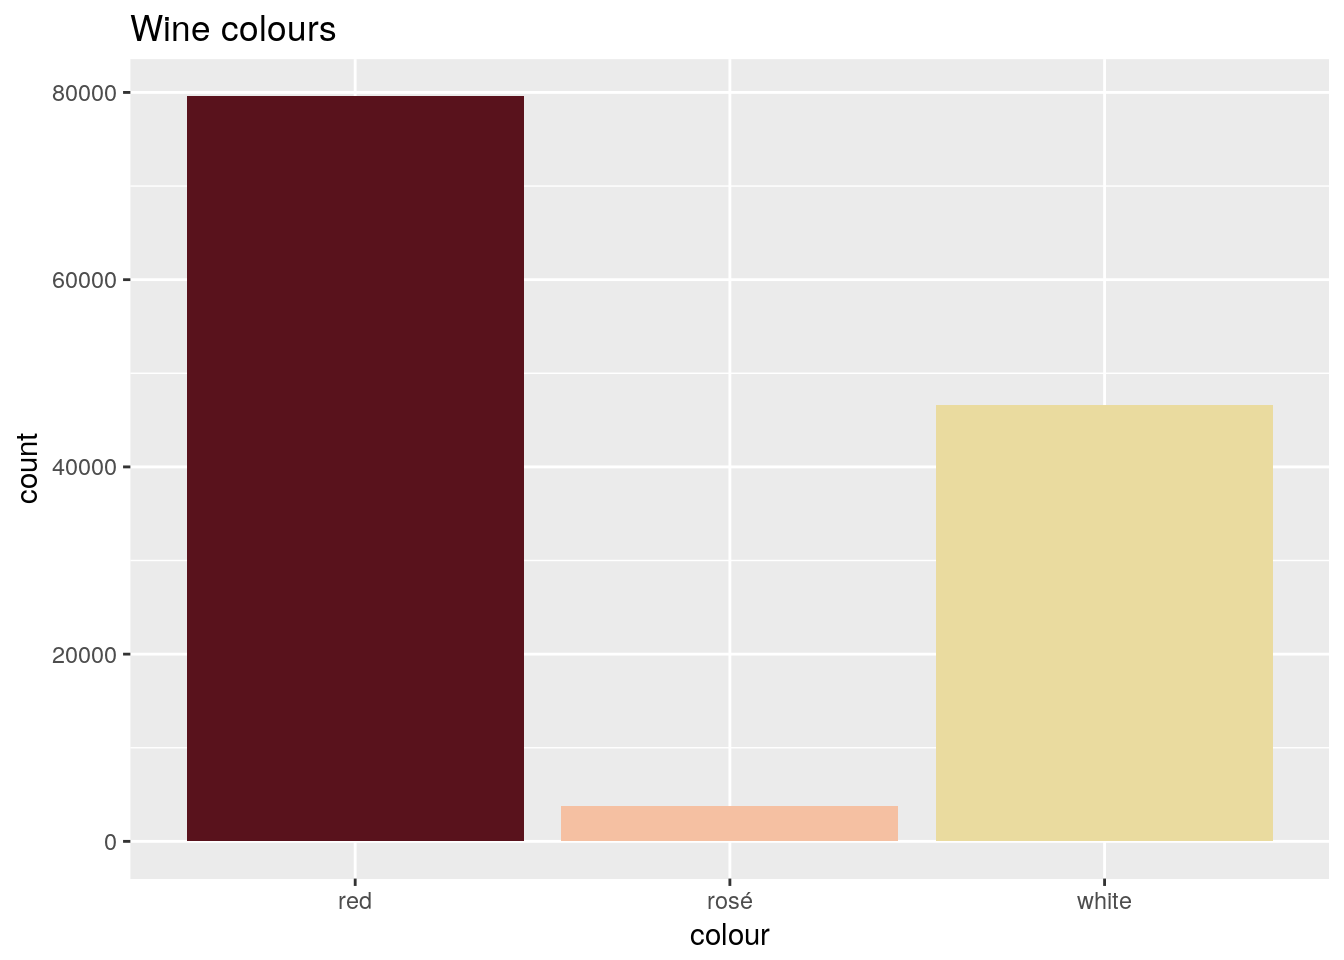
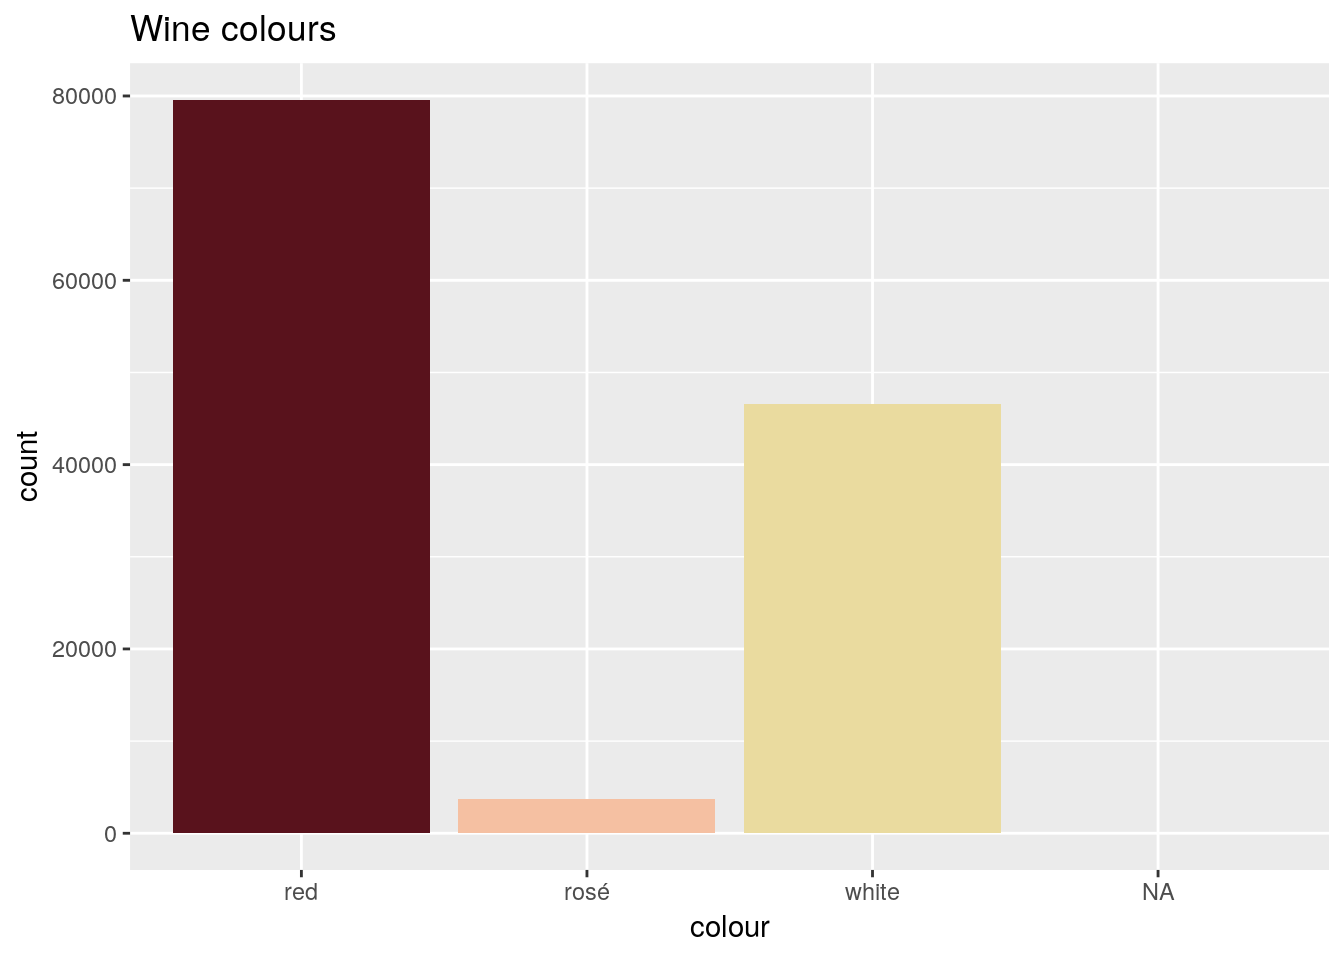
Fixed broken relative links

diff --git a/public/post/scraping-wine-colours-with-r/index.html b/public/post/scraping-wine-colours-with-r/index.html
@@ -25,7 +25,7 @@ I like red wine. I do not like white wine. I love wine data.  I came across a gr
         "datePublished": "2018-07-01 00:00:00 &#43;0000 UTC",
         "dateModified" : "2018-07-01 00:00:00 &#43;0000 UTC",
         "url" : "/post/scraping-wine-colours-with-r/",
-        "wordCount" : "2084",
+        "wordCount" : "2156",
         "keywords" : [ "R","R Markdown","wine","Blog" ]
     }
     </script>
@@ -88,7 +88,7 @@ I like red wine. I do not like white wine. I love wine data.  I came across a gr
 
 <meta itemprop="datePublished" content="2018-07-01T00:00:00&#43;00:00" />
 <meta itemprop="dateModified" content="2018-07-01T00:00:00&#43;00:00" />
-<meta itemprop="wordCount" content="2084">
+<meta itemprop="wordCount" content="2156">
 
 
 
@@ -532,7 +532,7 @@ I like red wine. I do not like white wine. I love wine data.  I came across a gr
             July 1, 2018</time>
         <span class="author"></span>
         
-            <p>10 minute read</p>
+            <p>11 minute read</p>
         
         
     </div>
@@ -690,12 +690,18 @@ information from the review:</p>
 wine data from the <a href="https://en.wikipedia.org/wiki/List_of_grape_varieties">List of grape varieties</a>
 Wikipedia page, using the <code>rvest</code> package. The first three tables of this page
 give red, white and rosé wines, in that order.</p>
-<pre class="r"><code>wiki_tables &lt;- &quot;https://en.wikipedia.org/wiki/List_of_grape_varieties&quot; %&gt;% 
+<p>We’re going to use an older version of the article, dated 2018-06-29, for
+consistency. Wikipedia displays a notice that the user is reading an older
+version of the article. This counts as a table, and so the code below refers to
+tables 2, 3 and 4. If using the live version, replace these figures with 1, 2
+and 3.</p>
+<pre class="r"><code># Use an old revision of the article for consistency
+wiki_tables &lt;- &quot;https://en.wikipedia.org/w/index.php?title=List_of_grape_varieties&amp;oldid=847983339&quot; %&gt;% 
     read_html %&gt;% 
     html_nodes(&quot;table&quot;)
-red_wines &lt;- wiki_tables[[1]] %&gt;% html_table %&gt;% cbind(colour = &quot;red&quot;)
-white_wines &lt;- wiki_tables[[2]] %&gt;% html_table %&gt;% cbind(colour = &quot;white&quot;)
-rose_wines &lt;- wiki_tables[[3]] %&gt;% html_table %&gt;% cbind(colour = &quot;rosé&quot;)
+red_wines &lt;- wiki_tables[[2]] %&gt;% html_table %&gt;% cbind(colour = &quot;red&quot;)
+white_wines &lt;- wiki_tables[[3]] %&gt;% html_table %&gt;% cbind(colour = &quot;white&quot;)
+rose_wines &lt;- wiki_tables[[4]] %&gt;% html_table %&gt;% cbind(colour = &quot;rosé&quot;)
 all_wines &lt;- rbind(red_wines, white_wines, rose_wines)
 all_wines %&gt;% 
     select(`Common Name(s)`, `All Synonyms`, colour) %&gt;% 
@@ -797,6 +803,30 @@ colour
 <tbody>
 <tr>
 <td style="text-align:left;">
+barbera dolce
+</td>
+<td style="text-align:left;">
+red
+</td>
+</tr>
+<tr>
+<td style="text-align:left;">
+cosses barbusen
+</td>
+<td style="text-align:left;">
+red
+</td>
+</tr>
+<tr>
+<td style="text-align:left;">
+limberger blauer
+</td>
+<td style="text-align:left;">
+red
+</td>
+</tr>
+<tr>
+<td style="text-align:left;">
 22 a baco
 </td>
 <td style="text-align:left;">
@@ -814,30 +844,6 @@ white
 <tr>
 <td style="text-align:left;">
 abboudossa
-</td>
-<td style="text-align:left;">
-white
-</td>
-</tr>
-<tr>
-<td style="text-align:left;">
-abbsudosa
-</td>
-<td style="text-align:left;">
-white
-</td>
-</tr>
-<tr>
-<td style="text-align:left;">
-abbuoto
-</td>
-<td style="text-align:left;">
-red
-</td>
-</tr>
-<tr>
-<td style="text-align:left;">
-abelione
 </td>
 <td style="text-align:left;">
 white
@@ -892,7 +898,7 @@ plot_wine_colours &lt;- function(wine_colours) {
 
 plot_wine_colours(wine_colours)</code></pre>
 <p><img src="/post/2018-07-01-scraping-wine-colours-with-r_files/figure-html/join_with_variety_colours-1.png" width="672" /></p>
-<p>All but 6709 wines have been
+<p>All but 6734 wines have been
 classified. We still have some colours missing, but first we consider the wines
 that have been classified as multiple colours:</p>
 <pre class="r"><code>wine_colours %&gt;% 
@@ -1074,13 +1080,13 @@ spaces or dashes.</p>
 
 plot_wine_colours(wine_colours)</code></pre>
 <p><img src="/post/2018-07-01-scraping-wine-colours-with-r_files/figure-html/join_with_blend_colours-1.png" width="672" /></p>
-<p>All but 4066 wines have been
+<p>All but 4091 wines have been
 classified. This is an improvement, but we still have to classify the rest.</p>
 </div>
 <div id="manual-classifications" class="section level2">
 <h2>Manual classifications</h2>
 <p>We manually classify the remaining
-153
+154
 varieties using web searches or the <code>description</code>s (reviews) associated with
 the wines.</p>
 <pre class="r"><code>manual_colours &lt;- &quot;manually_classified.csv&quot; %&gt;% read_csv</code></pre>
@@ -1109,8 +1115,8 @@ directly here. I encourage you to download the csv
 require a (free) Kaggle account. I’ve renamed the file here to <code>wine_reviews.csv</code>,
 but otherwise the data is unchanged before it is read. Other data used here:</p>
 <ul>
-<li>My manual classification of variety colours: <a href="data/manually_classified.csv">manually_classified.csv</a></li>
-<li>The final outcome, giving just varieties and colours: <a href="data/variety_colours.csv">variety_colours.csv</a></li>
+<li>My manual classification of variety colours: <a href="/data/manually_classified.csv">manually_classified.csv</a></li>
+<li>The final outcome, giving just varieties and colours: <a href="/data/variety_colours.csv">variety_colours.csv</a></li>
 </ul>
 <p>The header image at the top of this page is in the
 <a href="https://www.pexels.com/photo/abundance-alcohol-berries-berry-357742/">public domain</a>.</p>

diff --git a/content/post/2018-07-01-scraping-wine-colours-with-r.html b/content/post/2018-07-01-scraping-wine-colours-with-r.html
@@ -132,12 +132,18 @@ information from the review:</p>
 wine data from the <a href="https://en.wikipedia.org/wiki/List_of_grape_varieties">List of grape varieties</a>
 Wikipedia page, using the <code>rvest</code> package. The first three tables of this page
 give red, white and rosé wines, in that order.</p>
-<pre class="r"><code>wiki_tables &lt;- &quot;https://en.wikipedia.org/wiki/List_of_grape_varieties&quot; %&gt;% 
+<p>We’re going to use an older version of the article, dated 2018-06-29, for
+consistency. Wikipedia displays a notice that the user is reading an older
+version of the article. This counts as a table, and so the code below refers to
+tables 2, 3 and 4. If using the live version, replace these figures with 1, 2
+and 3.</p>
+<pre class="r"><code># Use an old revision of the article for consistency
+wiki_tables &lt;- &quot;https://en.wikipedia.org/w/index.php?title=List_of_grape_varieties&amp;oldid=847983339&quot; %&gt;% 
     read_html %&gt;% 
     html_nodes(&quot;table&quot;)
-red_wines &lt;- wiki_tables[[1]] %&gt;% html_table %&gt;% cbind(colour = &quot;red&quot;)
-white_wines &lt;- wiki_tables[[2]] %&gt;% html_table %&gt;% cbind(colour = &quot;white&quot;)
-rose_wines &lt;- wiki_tables[[3]] %&gt;% html_table %&gt;% cbind(colour = &quot;rosé&quot;)
+red_wines &lt;- wiki_tables[[2]] %&gt;% html_table %&gt;% cbind(colour = &quot;red&quot;)
+white_wines &lt;- wiki_tables[[3]] %&gt;% html_table %&gt;% cbind(colour = &quot;white&quot;)
+rose_wines &lt;- wiki_tables[[4]] %&gt;% html_table %&gt;% cbind(colour = &quot;rosé&quot;)
 all_wines &lt;- rbind(red_wines, white_wines, rose_wines)
 all_wines %&gt;% 
     select(`Common Name(s)`, `All Synonyms`, colour) %&gt;% 
@@ -239,6 +245,30 @@ colour
 <tbody>
 <tr>
 <td style="text-align:left;">
+barbera dolce
+</td>
+<td style="text-align:left;">
+red
+</td>
+</tr>
+<tr>
+<td style="text-align:left;">
+cosses barbusen
+</td>
+<td style="text-align:left;">
+red
+</td>
+</tr>
+<tr>
+<td style="text-align:left;">
+limberger blauer
+</td>
+<td style="text-align:left;">
+red
+</td>
+</tr>
+<tr>
+<td style="text-align:left;">
 22 a baco
 </td>
 <td style="text-align:left;">
@@ -256,30 +286,6 @@ white
 <tr>
 <td style="text-align:left;">
 abboudossa
-</td>
-<td style="text-align:left;">
-white
-</td>
-</tr>
-<tr>
-<td style="text-align:left;">
-abbsudosa
-</td>
-<td style="text-align:left;">
-white
-</td>
-</tr>
-<tr>
-<td style="text-align:left;">
-abbuoto
-</td>
-<td style="text-align:left;">
-red
-</td>
-</tr>
-<tr>
-<td style="text-align:left;">
-abelione
 </td>
 <td style="text-align:left;">
 white
@@ -334,7 +340,7 @@ plot_wine_colours &lt;- function(wine_colours) {
 
 plot_wine_colours(wine_colours)</code></pre>
 <p><img src="/post/2018-07-01-scraping-wine-colours-with-r_files/figure-html/join_with_variety_colours-1.png" width="672" /></p>
-<p>All but 6709 wines have been
+<p>All but 6734 wines have been
 classified. We still have some colours missing, but first we consider the wines
 that have been classified as multiple colours:</p>
 <pre class="r"><code>wine_colours %&gt;% 
@@ -516,13 +522,13 @@ spaces or dashes.</p>
 
 plot_wine_colours(wine_colours)</code></pre>
 <p><img src="/post/2018-07-01-scraping-wine-colours-with-r_files/figure-html/join_with_blend_colours-1.png" width="672" /></p>
-<p>All but 4066 wines have been
+<p>All but 4091 wines have been
 classified. This is an improvement, but we still have to classify the rest.</p>
 </div>
 <div id="manual-classifications" class="section level2">
 <h2>Manual classifications</h2>
 <p>We manually classify the remaining
-153
+154
 varieties using web searches or the <code>description</code>s (reviews) associated with
 the wines.</p>
 <pre class="r"><code>manual_colours &lt;- &quot;manually_classified.csv&quot; %&gt;% read_csv</code></pre>
@@ -551,8 +557,8 @@ directly here. I encourage you to download the csv
 require a (free) Kaggle account. I’ve renamed the file here to <code>wine_reviews.csv</code>,
 but otherwise the data is unchanged before it is read. Other data used here:</p>
 <ul>
-<li>My manual classification of variety colours: <a href="data/manually_classified.csv">manually_classified.csv</a></li>
-<li>The final outcome, giving just varieties and colours: <a href="data/variety_colours.csv">variety_colours.csv</a></li>
+<li>My manual classification of variety colours: <a href="/data/manually_classified.csv">manually_classified.csv</a></li>
+<li>The final outcome, giving just varieties and colours: <a href="/data/variety_colours.csv">variety_colours.csv</a></li>
 </ul>
 <p>The header image at the top of this page is in the
 <a href="https://www.pexels.com/photo/abundance-alcohol-berries-berry-357742/">public domain</a>.</p>

diff --git a/public/post/page/2/index.html b/public/post/page/2/index.html
@@ -607,7 +607,7 @@ no prior experience with Docker (which was me!).</p>
             July 1, 2018</time>
         <span class="author"></span>
         
-            <p>10 minute read</p>
+            <p>11 minute read</p>
         
         
     </div>

diff --git a/public/tags/r-markdown/page/2/index.html b/public/tags/r-markdown/page/2/index.html
@@ -608,7 +608,7 @@ UseR 2018 conference.</p>
             July 1, 2018</time>
         <span class="author"></span>
         
-            <p>10 minute read</p>
+            <p>11 minute read</p>
         
         
     </div>

diff --git a/public/tags/r/page/2/index.html b/public/tags/r/page/2/index.html
@@ -608,7 +608,7 @@ UseR 2018 conference.</p>
             July 1, 2018</time>
         <span class="author"></span>
         
-            <p>10 minute read</p>
+            <p>11 minute read</p>
         
         
     </div>

diff --git a/public/tags/wine/index.html b/public/tags/wine/index.html
@@ -425,7 +425,7 @@
             July 1, 2018</time>
         <span class="author"></span>
         
-            <p>10 minute read</p>
+            <p>11 minute read</p>
         
         
     </div>
